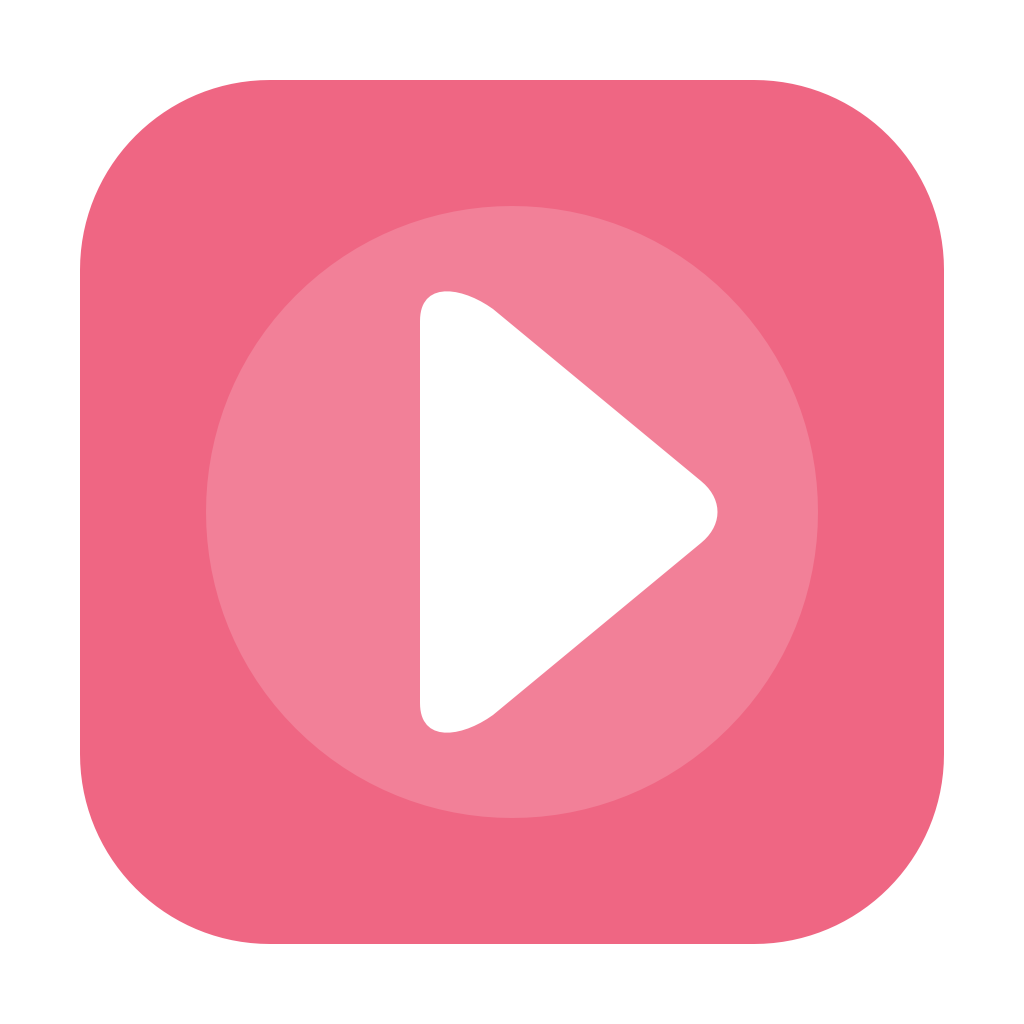
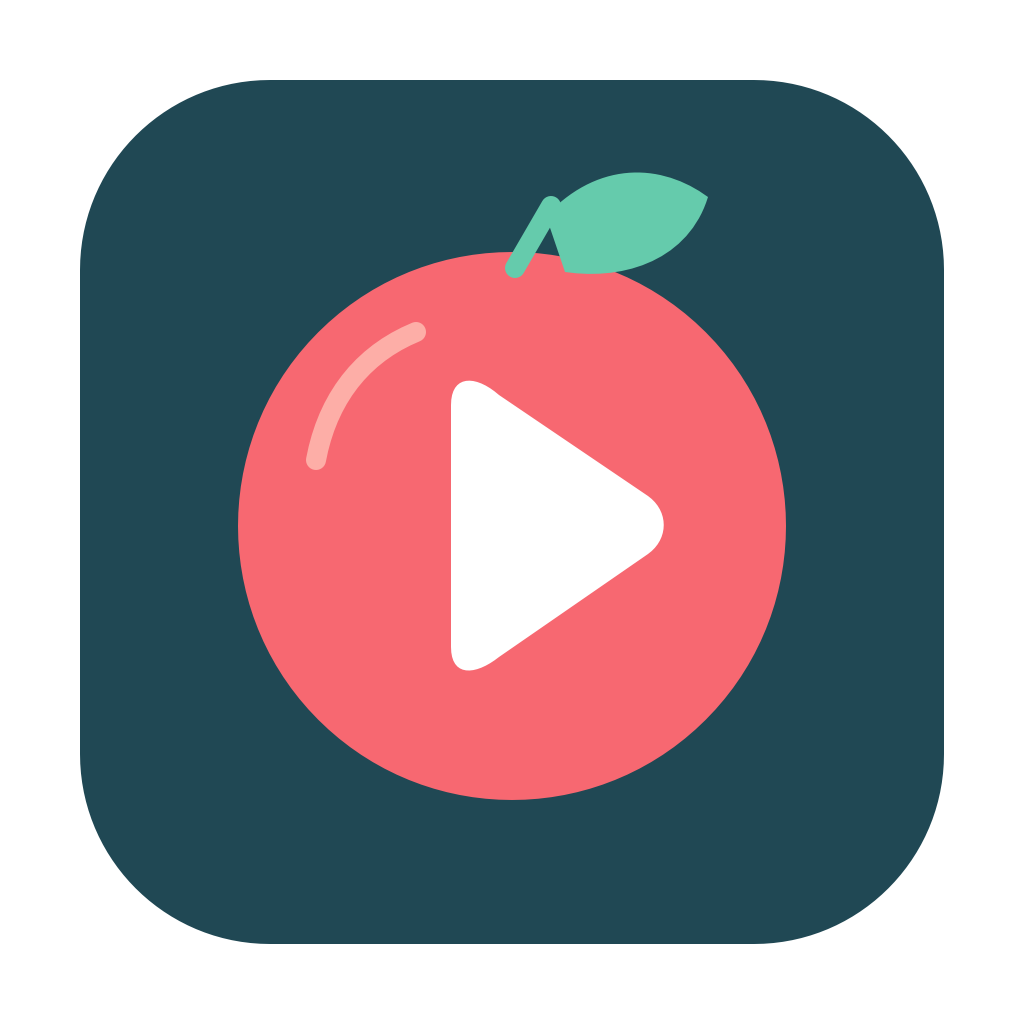
docs: document preview readiness and competitor position

diff --git a/RELEASE_REVIEW.md b/RELEASE_REVIEW.md
@@ -1,0 +1,38 @@
+# 0.1.0 发布检查与宣传计划
+
+检查日期：2026-10-07。结论：**继续保留草稿，不公开下载，不做集中宣传。**功能可运行不等于发行条件已满足。
+
+## 证据
+
+| 检查项 | 结果 | 范围 |
+|---|---|---|
+| 草稿安装包 | 通过结构检查 | GitHub 草稿中的原 DMG 与 SHA-256 一致；通用二进制包含 arm64/x86_64，临时签名有效，Apple 公证缺失 |
+| 原草稿首次安装 | 未通过 | 隔离新装时逐文件下载签名 JAR，在约 22 MB 处中断，安装脚本报“下载签名服务失败” |
[1 lines of base64/hex data omitted]
+| Apple Silicon 播放 | 通过 | macOS 15.3.1 的 WKWebView 中实测发现、详情、第一集视频画面、暂停、23 秒续播和本机历史 |
+| 修订功能 | 部分通过 | 真实 WKWebView 中确认选季、弹幕与小窗；组合筛选真实接口返回匹配剧集；浏览器触底分页验证 18→36→54→72 条，接口结束后停止。5 项适配测试通过。更新提示在浏览器状态测试通过，尚无更高公开版可做真实升级验证 |
+| Intel 与 macOS 13 | 未通过验收 | x86_64 程序切片存在；物理 Intel Mac 的签名服务和播放、macOS 13 实机均未完成 |
+| 授权与品牌 | 阻断 | 固定上游仓库未声明许可证；内容访问、公开 fork、名称、图标和截图的权利范围仍需明确。免责声明不能替代许可 |
+
+修订版还将 WebView 数据桥接限制到本机服务的主页面，禁止在 WebView 内跳转到外站，并用原创果实风格图标替换普通播放按钮。原草稿包的下载失败和修订版的安装成功只证明本次网络环境下的结果，仍需多网络、多设备复测。分页没有固定总条数上限，只在接口无下一页、空页或无新增剧集时停止。
+
+## 竞品与定位
+
+[JialaoLiu v0.4.3](https://github.com/JialaoLiu/hongguo-mac-release/releases/tag/v0.4.3)已发布 Apple Silicon DMG 与应用内更新，其 README 列有评论、画中画和深浅色。[zerozhh v1.0.2](https://github.com/zerozhh/hongguo-mac/releases/tag/v1.0.2)已公开 ZIP 与脚本，且公开源码。本机 v1.0.5 arm64 DMG 候选版已能启动，12/12 个后端测试通过，包内有弹幕与小窗；之后的工作区源码加入更新提示，但没有进入 1.0.5 DMG，不能算作已发行能力。本项目的视觉和常用播放流程没有明显独占优势。macOS 13+、Intel、图形化首次安装是可能有价值的细分定位，其中 Intel 与最低系统版本仍缺实机证据。
+
+因此，不使用“官方版”“最好用”“全面超越竞品”或“Intel 已验证”等宣传语，也不以未经授权内容的保存能力作为卖点。
+
+## 返工与放行门槛
+
+1. **授权先行**：取得上游代码与签名资源的明确使用许可，或替换为有权使用的实现；核对内容服务条款、品牌和素材使用范围。未解决前不公开草稿。
+2. **安装与播放复验**：用修订版 DMG 在干净 Apple Silicon 与物理 Intel Mac 上完成下载、搜索、详情、首集播放、断点续播、重启和卸载；另用 macOS 13 实机验收最低版本。记录设备、系统、耗时与失败日志。
+3. **证明差异化**：与竞品在相同网络及相近硬件上记录安装成功率、首次可播时间、播放稳定性；把用户真正重视且竞品未覆盖的旧系统或 Intel 场景做成可靠体验。证据不足就继续返工，不发布“领先”结论。
+4. **发布工程**：为私有源码增加可重复的 CI 构建、测试与产物校验；草稿附件、SHA-256 和发行说明必须与同一构建一致。检查更新目前只提示去发行页，并非自动安装更新。
+
+## 条件式宣传
+
+授权与上述实机验收全部通过后，先邀请 10 名 Mac 目标用户进行小范围试用，至少覆盖 Apple Silicon、Intel、macOS 13 和较新系统。记录独立安装成功率、首次可播时间、播放故障与 7 日留存。少于 8 人能独立安装并完成首次播放，或任一架构存在阻断故障，就返回修复，不扩大传播。
+
+小范围试用通过后，先更新 GitHub Release、README、安装录屏和常见问题，再向 Mac 用户社区发布一篇如实说明兼容范围与限制的体验帖。发布后一周以安装失败、播放中断和安全问题为优先级处理 Issue；有未解决的授权争议时暂停推广。
+
+竞品资料来自检查日的公开自述和发行附件，正式发布前需要复核最新版本。

diff --git a/README.md b/README.md
@@ -12,7 +12,9 @@
 
 这是一个由 `StriveToLearnCode` 独立维护的 macOS 项目，参考 [红果桌面版 Windows 发行仓库](https://github.com/waligoraamodio288-rgb/hongguo-desktop-releases)的公开界面和功能。**本项目不是红果官方软件，也不是原 Windows 作者发布的 Mac 移植版。**原项目私有源码没有公开；两者的内容来源、底层实现和可用性不能视为相同。
 
-**发行状态：**0.1.0 安装包和校验摘要已上传为 GitHub 草稿。外部内容服务仓库没有明确许可证，公开下载暂待授权范围明确。
+**发行状态：**0.1.0 安装包和校验摘要保留为 GitHub 草稿，[修订说明](RELEASE_NOTES.md)。外部内容服务仓库没有明确许可证，公开下载暂待授权范围明确。
+
+**发布判断（2026-10-07）：暂缓公开发行与集中宣传。** Apple Silicon 的核心流程已实测，但 Intel 播放、macOS 13 实机和上游授权尚未通过门槛；[完整测试、竞品对照与宣传计划](RELEASE_REVIEW.md)。
 
 ![红果短剧 Mac 版发现页：分类、热播、封面与收藏](assets/discover.png)
 
@@ -24,17 +26,29 @@
 
 </details>
 
-截图为本项目在 macOS 上运行时拍摄；封面及视频画面来自内容服务，版权归原权利方，具体片单会变化。
+截图为本项目早期 0.1.0 草稿在 macOS 上运行时拍摄，修订草稿的分类与图标会有所不同；封面及视频画面来自内容服务，版权归原权利方，具体片单会变化。
 
 ## 功能
 
-- 发现、分类、热播榜、新剧榜、搜索与剧集详情
+- 发现、组合分类筛选、逐页下滑加载、热播榜、新剧榜、搜索与剧集详情
 - 选集分组和集数定位、播放进度、1 至 3 倍速、自动连播
+- 同系列选季（搜索结果包含相关季时）、只读弹幕、系统画中画或置顶小窗
+- 跟随系统、浅色和深色外观；有更高公开版时提示并打开发行页，更新仍需手动安装
 - 本机收藏、观看历史、断点续播与历史清理
 - `⌘ Shift B` 隐藏并暂停窗口，返回后恢复原状态
 - 图形化首次安装、播放服务状态与失败重试
 
 收藏与进度仅保存在这台 Mac，不同步手机红果账号。在线片单与播放依赖用户设备首次启动时获取的外部内容服务，服务或接口变化可能导致搜索、封面或播放暂时不可用。
+
+## 与同类 Mac 项目相比
+
+| 项目 | 公开版本与定位 | 当前判断 |
+|---|---|---|
+| [JialaoLiu/hongguo-mac-release](https://github.com/JialaoLiu/hongguo-mac-release/releases/tag/v0.4.3) | 已发行 Apple Silicon DMG，README 写明 macOS 26+；提供应用内更新，说明中列有评论、画中画和深浅色 | 发布体验和已说明的功能更完整 |
+| [zerozhh/hongguo-mac](https://github.com/zerozhh/hongguo-mac/releases/tag/v1.0.2) | 公开版 v1.0.2 为 ZIP 与安装脚本；另有本地 v1.0.5 arm64 DMG 候选版 | 源码可见；v1.0.5 包内有弹幕和小窗。随后更新的源码加入了更新提示，但尚未进入该 DMG |
+| 本项目 | 0.1.0 通用 DMG 仍是草稿；Apple Silicon/macOS 15.3.1 已实测 | macOS 13+ 与 Intel 覆盖是潜在差异，不能在实机验证前宣称领先 |
+
+当前没有证据证明本项目整体超过已发行的 Mac 竞品。上表依据检查日的公开发行页、README 与本机可核对的候选包；竞品功能未逐项独立验收。新增功能属于待公开的修订草稿，不应与已经发行的竞品版本混同。
 
 当前通用包包含 Apple Silicon 和 Intel 两种应用架构；**物理 Intel Mac 的签名服务与播放尚未实机验证**。x86_64 组件在 Apple Silicon 的 Rosetta 环境中遇到原生库崩溃，安装器会在 M 系列 Mac 上改用原生 arm64 组件。
 

diff --git a/RELEASE_NOTES.md b/RELEASE_NOTES.md
@@ -1,0 +1,27 @@
+# 红果短剧 Mac 版 0.1.0（技术预览草稿）
+
+**状态：草稿，未公开发行。**本项目是非官方 macOS 客户端。外部内容服务仓库未声明许可证；在授权范围明确、Intel 和 macOS 13 实机验收完成之前，不开放公开下载。
+
+## 本次草稿修订
+
+- 图形化首次安装改为下载固定提交归档并校验 SHA-256；本机隔离目录的首次安装已通过。
+- 发现页增加组合筛选与游标分页，触底持续请求下一页，直到接口无下一页、空页或无新增剧集；集数显示在封面下方。
+- 增加相关季切换、只读弹幕、系统画中画与置顶小窗回退、跟随系统/浅色/深色外观、公开新版提示。
+- 将本机数据桥接限制到应用的本地服务主页面，使用原创果实风格图标。
+
+## 验证与限制
+
+- 在 Apple Silicon / macOS 15.3.1 实测发现、详情、视频画面、暂停与断点续播；组合筛选在真实接口返回匹配剧集。
+- 分页接口两页各返回 18 条；浏览器触底连续追加到 72 条，并在接口结束时停止。5 项适配测试通过。
+- 通用 App 含 arm64 与 x86_64 切片，物理 Intel Mac 的签名服务与播放、macOS 13 实机仍未验收。
+- 本包为 ad-hoc 签名，未经 Apple 公证。新版提示只打开发行页，安装仍需手动完成。
+
+## 草稿附件
+
+`HongguoMac-0.1.0-universal.dmg`：
+
+```text
+b0fa06c75a9e03390793d50e1b1b9e9e7c66038a6764fcba692a6888aaa68ec1  HongguoMac-0.1.0-universal.dmg
+```
+
+详细发布门槛和宣传计划见 [RELEASE_REVIEW.md](RELEASE_REVIEW.md)。

diff --git a/CHANGELOG.md b/CHANGELOG.md
@@ -1,5 +1,13 @@
 # 更新记录
 
+## 0.1.0 草稿修订（未公开发行）
+
+- 首次安装改为获取固定提交的归档并校验 SHA-256，减少逐文件下载失败。
+- 限制 WebView 本机数据桥接的来源与页面导航范围。
+- 重新绘制原创果实风格图标，并统一 Dock、应用内入口和发行页图标。
+- 增加组合分类、游标分页和触底继续请求；集数移到封面下方。
+- 增加相关季切换、只读弹幕、画中画与原生小窗回退、三种外观模式和新版提示。
+
 ## 0.1.0 - 技术预览
 
 - 新建 macOS 13+ 通用应用包，支持 Apple Silicon 与 Intel。
